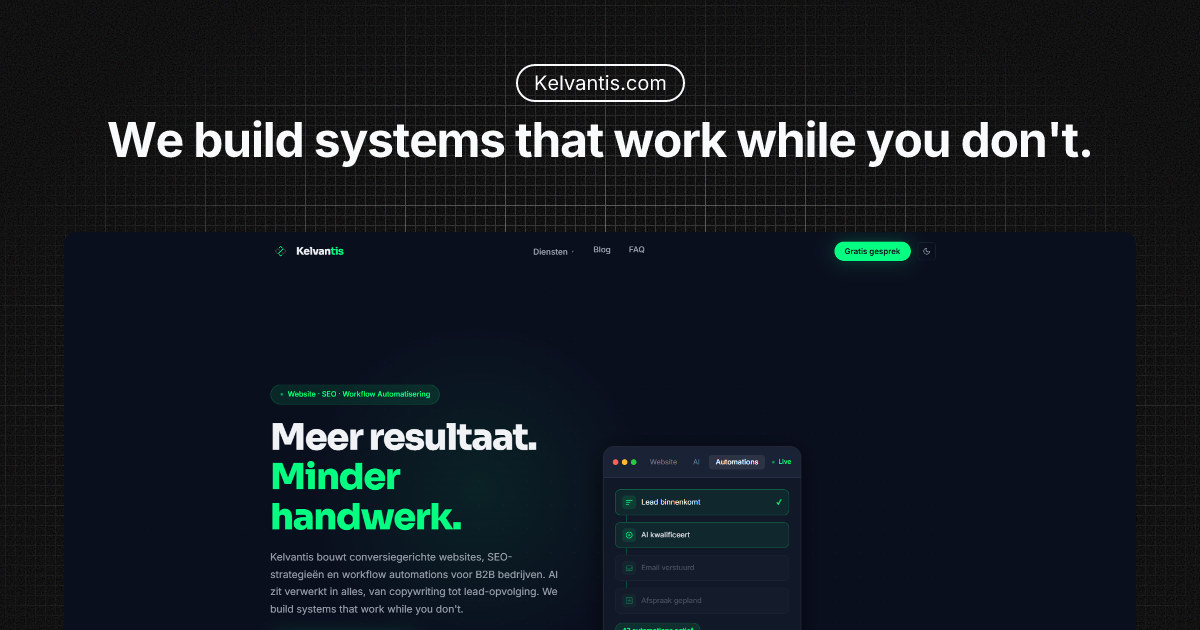
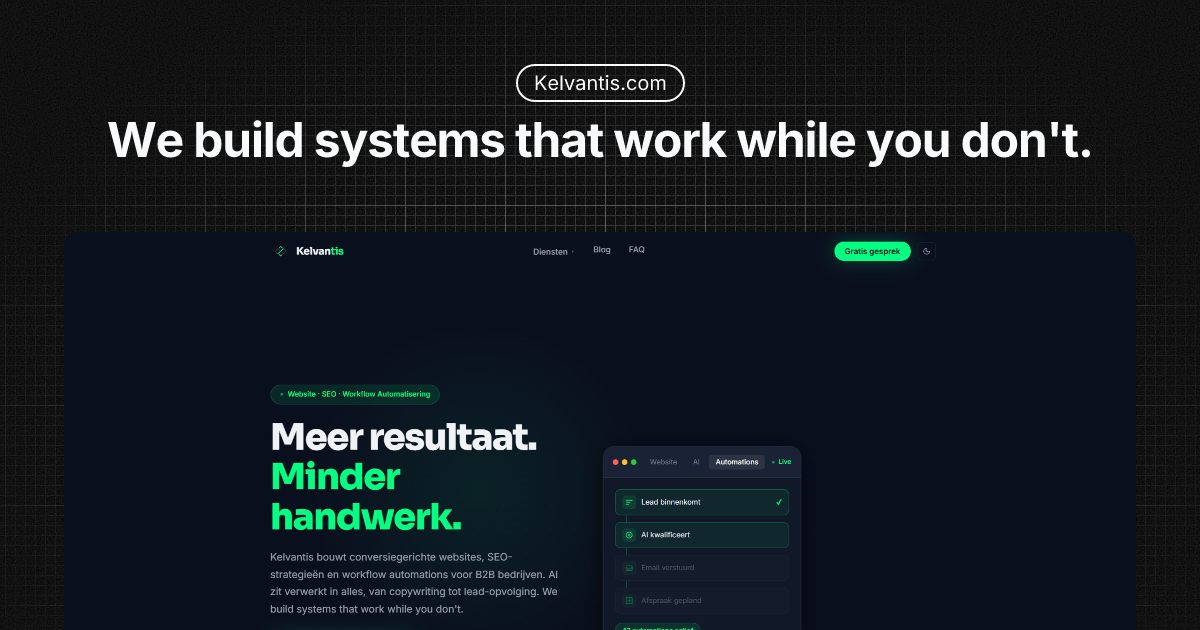
perf: compress og-image and trim Fraunces weight range
- og-image.jpg: opnieuw gecodeerd op JPEG-kwaliteit 82, 697 KB -> 90 KB
  (87% kleiner), zelfde afmetingen 1200x630
- Fraunces-fontlink: wght-as 300..900 -> 300..700 (ontwerp gebruikt
  max ~450); lichtere variable-font-instance

diff --git a/index.html b/index.html
@@ -40,7 +40,7 @@
   <!-- Fonts -->
   <link rel="preconnect" href="https://fonts.googleapis.com">
   <link rel="preconnect" href="https://fonts.gstatic.com" crossorigin>
-  <link href="https://fonts.googleapis.com/css2?family=Fraunces:ital,opsz,wght,SOFT,WONK@0,9..144,300..900,0..100,0..1;1,9..144,300..900,0..100,0..1&family=JetBrains+Mono:wght@400;500&family=Inter+Tight:wght@300;400;500;600&display=swap" rel="stylesheet">
+  <link href="https://fonts.googleapis.com/css2?family=Fraunces:ital,opsz,wght,SOFT,WONK@0,9..144,300..700,0..100,0..1;1,9..144,300..700,0..100,0..1&family=JetBrains+Mono:wght@400;500&family=Inter+Tight:wght@300;400;500;600&display=swap" rel="stylesheet">
 
   <!-- Styles (homepage-scoped, inline — gedeelde style.css blijft voor overige pagina's) -->
   <style>